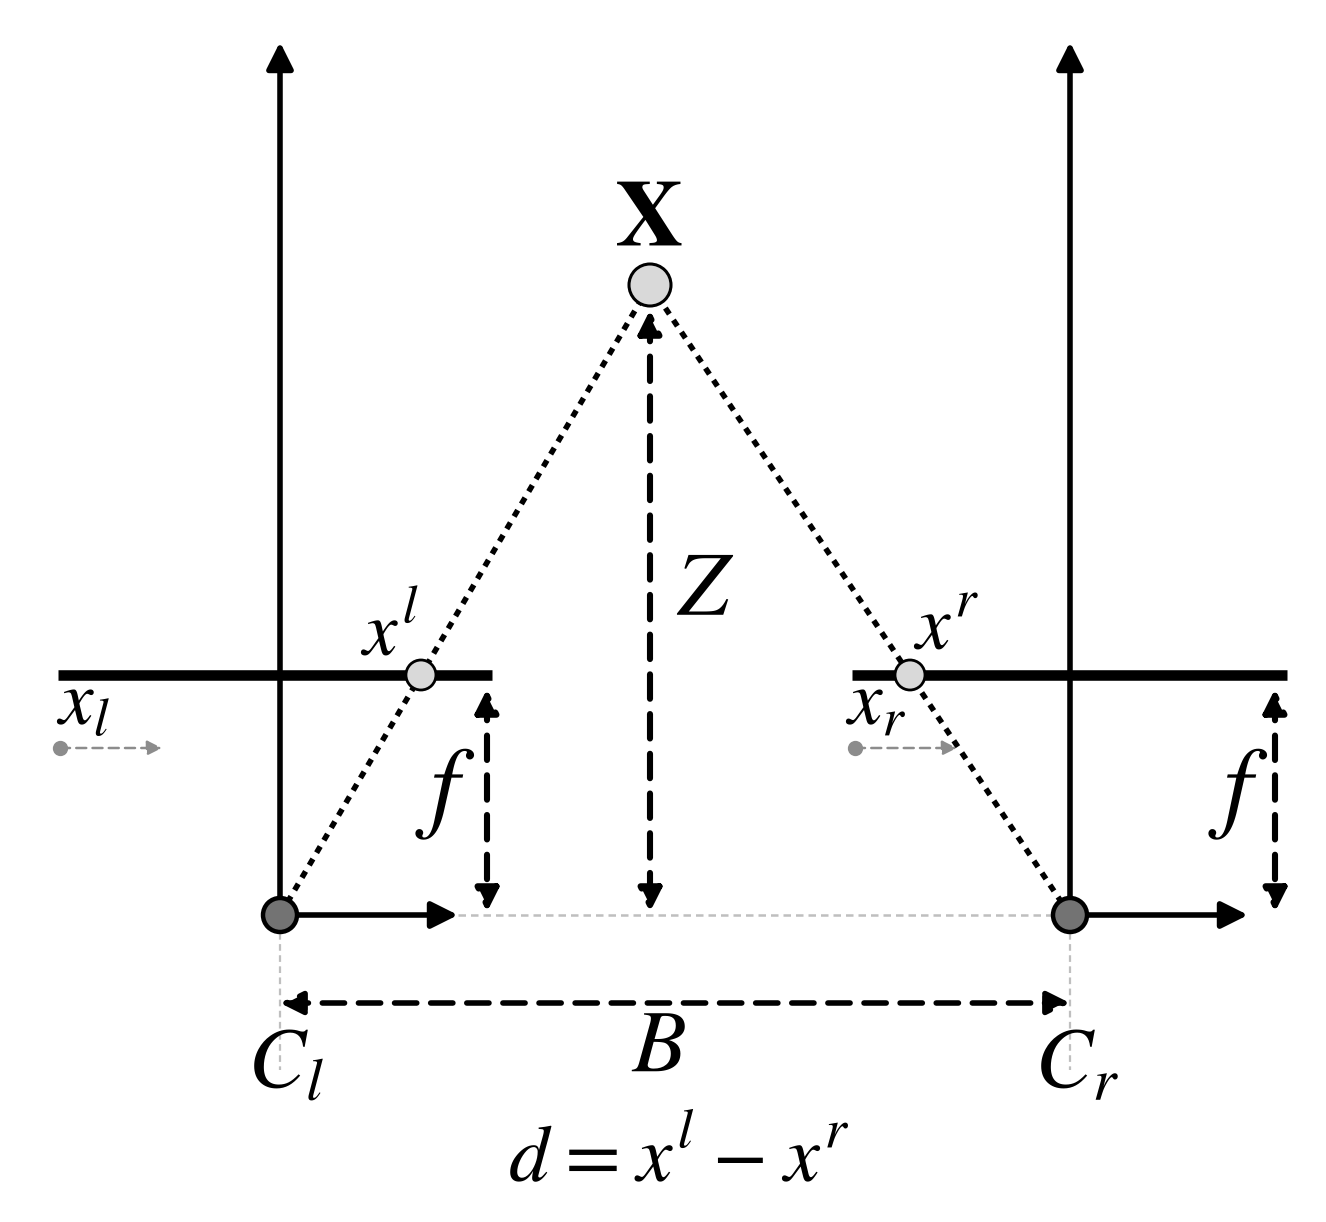
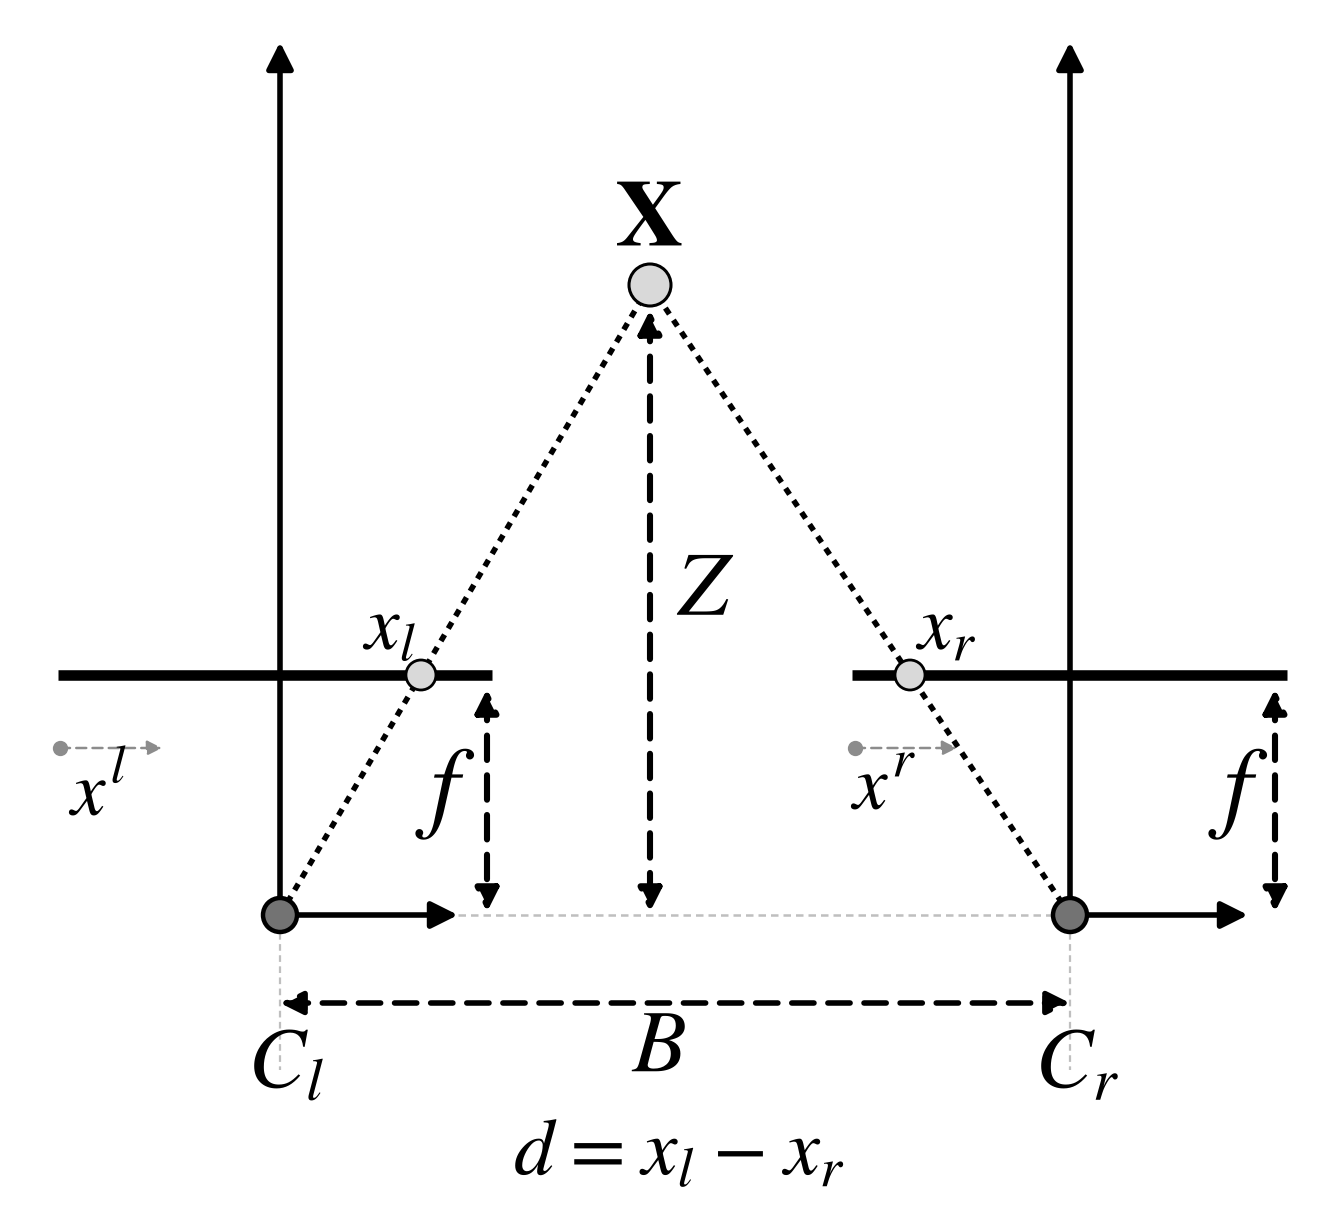
Alterações em alguns textos e na imagem de triangulação da aula de visão estéreo.

diff --git a/docs/slides/visao_estereo/visao_estereo.html b/docs/slides/visao_estereo/visao_estereo.html
@@ -713,7 +713,7 @@ Prof.&nbsp;Bruno Silva
 <h2>Correspondência Estéreo I</h2>
 <p>Processo responsável por:</p>
 <ul>
-<li>Obter as coordenadas 2D <span class="math inline">\mathbf{x}^l</span> e <span class="math inline">\mathbf{x}^r</span> nas imagens esquerda e direita de um mesmo ponto 3D <span class="math inline">\mathbf{X}</span></li>
+<li>Obter as coordenadas 2D <span class="math inline">\mathbf{x}_l</span> e <span class="math inline">\mathbf{x}_r</span> nas imagens esquerda e direita de um mesmo ponto 3D <span class="math inline">\mathbf{X}</span></li>
 <li>Com imagens previamente retificadas, a busca por correspondências é acelerada: ao invés da correspondência ser buscada em toda a imagem, ela é buscada em uma única linha</li>
 </ul>
 </section>
@@ -721,7 +721,7 @@ Prof.&nbsp;Bruno Silva
 <h2>Correspondência Estéreo II</h2>
 <p>O resultado da correspondência estéreo é chamado de cálculo de <strong>disparidade</strong>:</p>
 <ul>
-<li>Diferença em pixels <span class="math inline">x_l-x_r</span> entre as coordenadas x de um mesmo ponto</li>
+<li>Diferença em pixels <span class="math inline">x_l-x_r</span> entre as coordenadas <span class="math inline">x</span> de um mesmo ponto</li>
 <li>Forma uma tripla <span class="math inline">[x_l, y, x_r]^t</span> ou <span class="math inline">[x_l, y_l, d]^t</span>
 <ul>
 <li>Lembre-se que em imagens retificadas, <span class="math inline">y_l = y_r = y</span> e <span class="math inline">x_r = x_l + d</span></li>
@@ -801,7 +801,7 @@ Prof.&nbsp;Bruno Silva
 <p>Observações importantes:</p>
 <ul>
 <li>Pontos mais próximos do que a faixa informada recebem disparidade inválida</li>
-<li>Aumentar <code>numDisparities</code> não melhora a resolução; ao invés disto, amplia o alcance em direção à câmera, a um custo maior de processamento e com uma faixa inválida maior na borda esquerda do mapa</li>
+<li>Aumentar <code>numDisparities</code> não melhora a resolução; ao invés disto, amplia o alcance em direção à câmera, a um custo maior de processamento e com uma faixa inválida maior na borda esquerda da imagem</li>
 </ul>
 </section>
 <section id="correspondência-estéreo-x" class="slide level2 nostretch">
@@ -877,7 +877,7 @@ Prof.&nbsp;Bruno Silva
 <p>O mapa de disparidade é geralmente armazenado com o tipo <code>CV_16S</code>:</p>
 <ul>
 <li>A resolução do mapa é de <span class="math inline">1/16 = 0,0625</span> pixel. Ela é imposta quando os valores <span class="math inline">d-1, d, d+1</span> são interpolados para obter disparidade a nível de subpixel</li>
-<li>Assim, em cada posição do mapa, o valor armazenado é na verdade <span class="math inline">16.d</span>: a disparidade real é obtida portanto por <span class="math inline">d/16</span></li>
+<li>Assim, em cada posição do mapa de disparidade, o valor armazenado é na verdade <span class="math inline">16 \times d</span>: a disparidade real é obtida portanto por <span class="math inline">d/16</span></li>
 <li>Pixels sem correspondência recebem o valor <code>(minDisparity - 1) x 16</code></li>
 </ul>
 </section></section>
@@ -890,7 +890,7 @@ Prof.&nbsp;Bruno Silva
 <h2>Reconstrução Estéreo I</h2>
 <p>Processo responsável por:</p>
 <ul>
-<li>Calcular a profundidade (em unidades de medida) a partir do mapa de disparidade</li>
+<li>Calcular a profundidade (em unidades de comprimento) a partir do mapa de disparidade</li>
 <li>Realizado por aplicação de um modelo geométrico que relaciona o par de câmeras</li>
 <li>O resultado do processo é chamado de <strong><em>mapa de profundidade</em></strong></li>
 </ul>
@@ -901,7 +901,7 @@ Prof.&nbsp;Bruno Silva
 <ul>
 <li>Eixos ópticos das duas câmeras paralelos</li>
 <li>Planos de imagem das duas câmeras coplanares</li>
-<li>As duas câmeras possuem a mesma distância focal: <span class="math inline">f = f^l = f^r</span></li>
+<li>As duas câmeras possuem a mesma distância focal: <span class="math inline">f = f_l = f_r</span></li>
 <li>As duas câmeras estão separadas por uma distância <span class="math inline">B</span> (linha de base)</li>
 </ul>
 </section>
@@ -909,9 +909,9 @@ Prof.&nbsp;Bruno Silva
 <h2>Reconstrução Estéreo III</h2>
 <p>Premissas:</p>
 <ul>
-<li>As coordenadas horizontais dos centros de projeção das duas câmeras são iguais: <span class="math inline">c_x^l = c_x^r</span></li>
+<li>As coordenadas horizontais dos centros de projeção das duas câmeras são iguais: <span class="math inline">c_{x_l} = c_{x_r}</span></li>
 <li>As duas imagens estão alinhadas por linha</li>
-<li>Um ponto 3D <span class="math inline">\mathbf{X}</span> no mundo pode ser achado sem ambiguidades nas câmeras esquerda <span class="math inline">\mathbf{x}^l</span> e direita <span class="math inline">\mathbf{x}^r</span></li>
+<li>Um ponto 3D <span class="math inline">\mathbf{X}</span> no mundo pode tem projeções nas câmeras esquerda <span class="math inline">\mathbf{x}_l</span> e direita <span class="math inline">\mathbf{x}_r</span></li>
 <li>A origem do sistema de coordenadas do sistema estéreo (<em>stereo rig</em>) está na câmera esquerda</li>
 </ul>
 </section>
@@ -920,7 +920,8 @@ Prof.&nbsp;Bruno Silva
 <div class="columns">
 <div class="column" style="width:50%;">
 <p>Modelo geométrico - triangulação:</p>
-<p>Obtenção da profundidade de um ponto (coordenada <span class="math inline">Z</span>) através da imagem de um ponto em duas câmeras.</p>
+<p>Obtenção da profundidade de um ponto 3D (coordenada <span class="math inline">Z</span>) através das coordenadas <span class="math inline">x_l</span> e <span class="math inline">x_r</span> da projeção deste ponto em duas câmeras.</p>
+<p>Observe que <span class="math inline">x_l</span> e <span class="math inline">x_r</span> estão em unidade de comprimento, assim como <span class="math inline">d</span>.</p>
 </div><div class="column" style="width:50%;">
 <div class="quarto-figure quarto-figure-center">
 <figure>
@@ -932,26 +933,36 @@ Prof.&nbsp;Bruno Silva
 <section id="reconstrução-estéreo-v" class="slide level2">
 <h2>Reconstrução Estéreo V</h2>
 <p>Por semelhança de triângulos:</p>
+<ul>
+<li><p>Base do triângulo 1: <span class="math inline">B</span></p></li>
+<li><p>Altura do triângulo 1: <span class="math inline">Z</span></p></li>
+<li><p>Base do triângulo 2: <span class="math inline">(B+x^r) - x^l</span></p></li>
+<li><p>Altura do triângulo 2: <span class="math inline">Z - f</span></p></li>
+</ul>
+</section>
+<section id="reconstrução-estéreo-vi" class="slide level2">
+<h2>Reconstrução Estéreo VI</h2>
+<p>Assim:</p>
 <p><span class="math display">
-\frac{B}{Z} = \frac{B - (x^r - x^l)}{Z - f}
+\frac{B}{Z} = \frac{B - (x^l - x^r)}{Z - f}
 </span></p>
 <p><span class="math display">
-Z = \frac{fB}{x^l - x^r}
+\frac{B}{Z} = \frac{B - d}{Z - f}
 </span></p>
 <p><span class="math display">
 Z = \frac{fB}{d}
 </span></p>
 </section>
-<section id="reconstrução-estéreo-vi" class="slide level2">
-<h2>Reconstrução Estéreo VI</h2>
+<section id="reconstrução-estéreo-vii" class="slide level2">
+<h2>Reconstrução Estéreo VII</h2>
 <p>Observe a importância dos parâmetros da correspondência estéreo <code>minDisparity</code> e <code>numDisparities</code>:</p>
 <p>Considere que o par estéreo possui <span class="math inline">B = 0,1m</span> e <span class="math inline">f = 440</span> px. Para <code>minDisparity = 0</code> e <code>numDisparities = 160</code>, a profundidade mínima do sistema será:</p>
 <p><span class="math display">
 Z_{min} = \frac{fB}{d} = \frac{440 \times 0,1}{160} = 27,5cm
 </span></p>
 </section>
-<section id="reconstrução-estéreo-vii" class="slide level2">
-<h2>Reconstrução Estéreo VII</h2>
+<section id="reconstrução-estéreo-viii" class="slide level2">
+<h2>Reconstrução Estéreo VIII</h2>
 <p>Ainda com os mesmos parâmetros, observe a diferença das profundidades <span class="math inline">Z_1</span> e <span class="math inline">Z_2</span>, correspondentes aos planos inteiros obtidos com disparidades <span class="math inline">d=1</span> e <span class="math inline">d=2</span> respectivamente:</p>
 <p><span class="math display">
 Z_{1} = \frac{fB}{d} = \frac{440 \times 0,1}{1} = 44m
